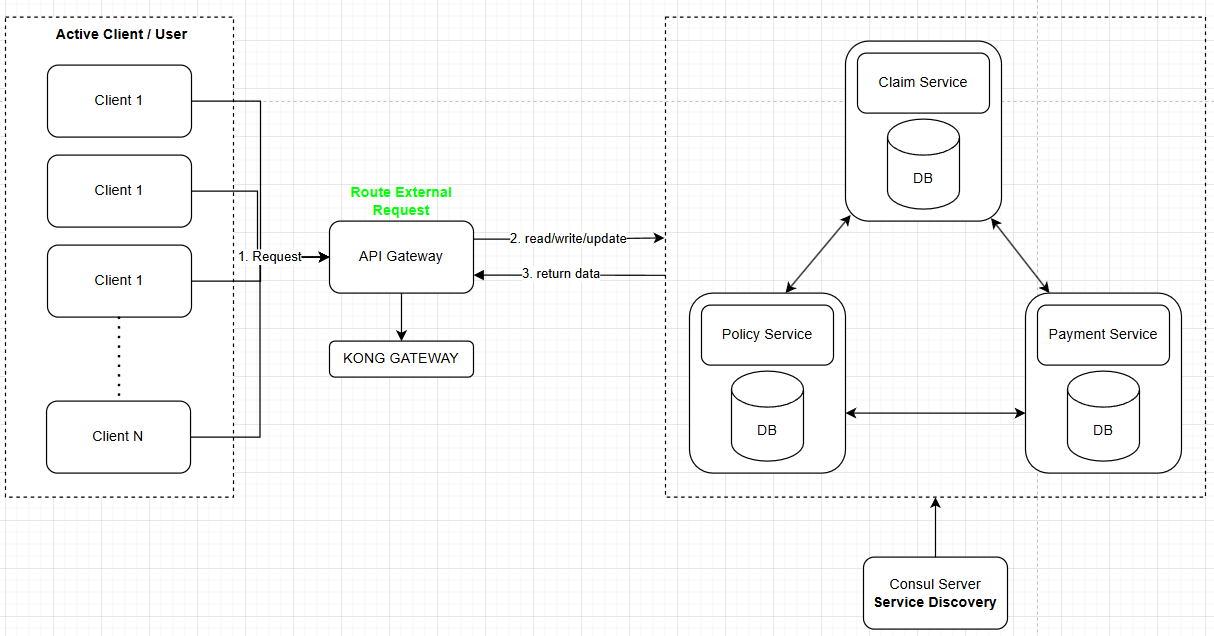
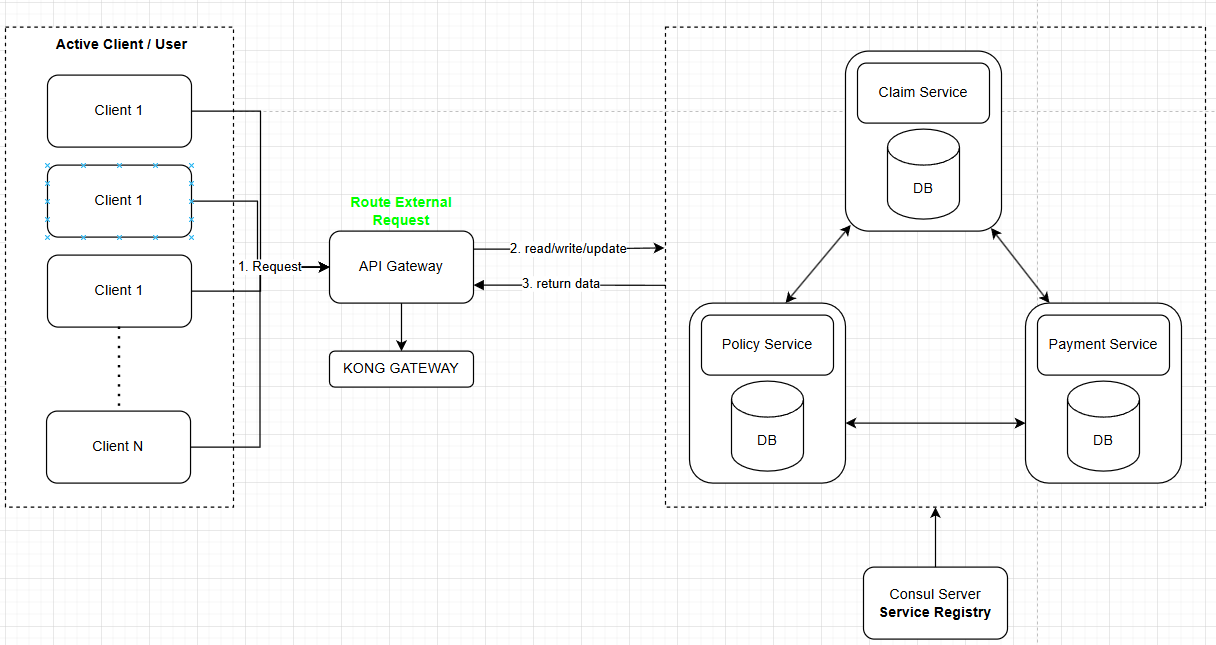
ad more discussion

diff --git a/README.md b/README.md
@@ -37,6 +37,8 @@
 - **Deployment**: Monolithic systems require full deployment, while microservices allow for independent deployment.
 - **Maintenance**: Microservices are easier to maintain due to their modular nature, while monolithic systems can become complex over time.
 
+### Sprint 2: Implement API Gateway and Service Registry
+
 ##### Running Services at local: 
 
 | Services  | Port |
@@ -47,3 +49,38 @@
 | Claim DB/Cache  | :5432 / :6379  |
 | Payment DB/Cache  | :5433 / :6380  |
 | Policy DB/Cache  | :5434 / :6381  |
+
+#### Result after adding API Gateway 
+![alt text](assets/api_gateway.png)
+
+- How the service registry work between multiple services
+![alt text](assets/registry.png)
+
+### Sprint 3: Decoupling problem 
+
+#### Why Do We Need Decoupling Between Two Services?
+Decoupling services allows systems to be **scalable, resilient, and maintainable** by reducing dependencies between components. In a **tightly coupled system**, one service directly depends on another, making failures or changes more disruptive. By introducing **decoupling**, services can **communicate asynchronously, handle failures gracefully, and scale independently**.
+
+#### Key Benefits of Decoupling
+- **Scalability**: Each service can scale independently based on its workload.
+- **Fault Tolerance**: If one service fails, it does not bring down the entire system.
+- **Maintainability**: Easier to modify, replace, or update services without affecting others.
+- **Asynchronous Processing**: Improves performance by allowing tasks to be queued and processed later.
+- **Better Resource Utilization**: Services can process tasks at their own speed, avoiding bottlenecks.
+
+#### Example: Payment and Claim
+Consider a scenario where 
+- **Claim Service** (Handles customer claim)
+- **Payment Service** (Processes payments)
+
+#### Without Decoupling (Synchronous Request-Response)
+- The **Claim Service** calls the **Payment Service** immediately.
+- If the **Payment Service** is down, claim fail.
+- The **Claim Service** is blocked, leading to poor performance and possibly data lost.
+
+#### With Decoupling (Using a Message Queue)
+- The **Claim Service** places a **payment request** in a **message queue**.
+- The **Payment Service** picks up the request **asynchronously** and processes it.
+- If the **Payment Service** is down, the request remains in the queue and is retried later.
+
+**Result**: Claim are **not blocked**, failures are **handled**, and the system **scales better**.
